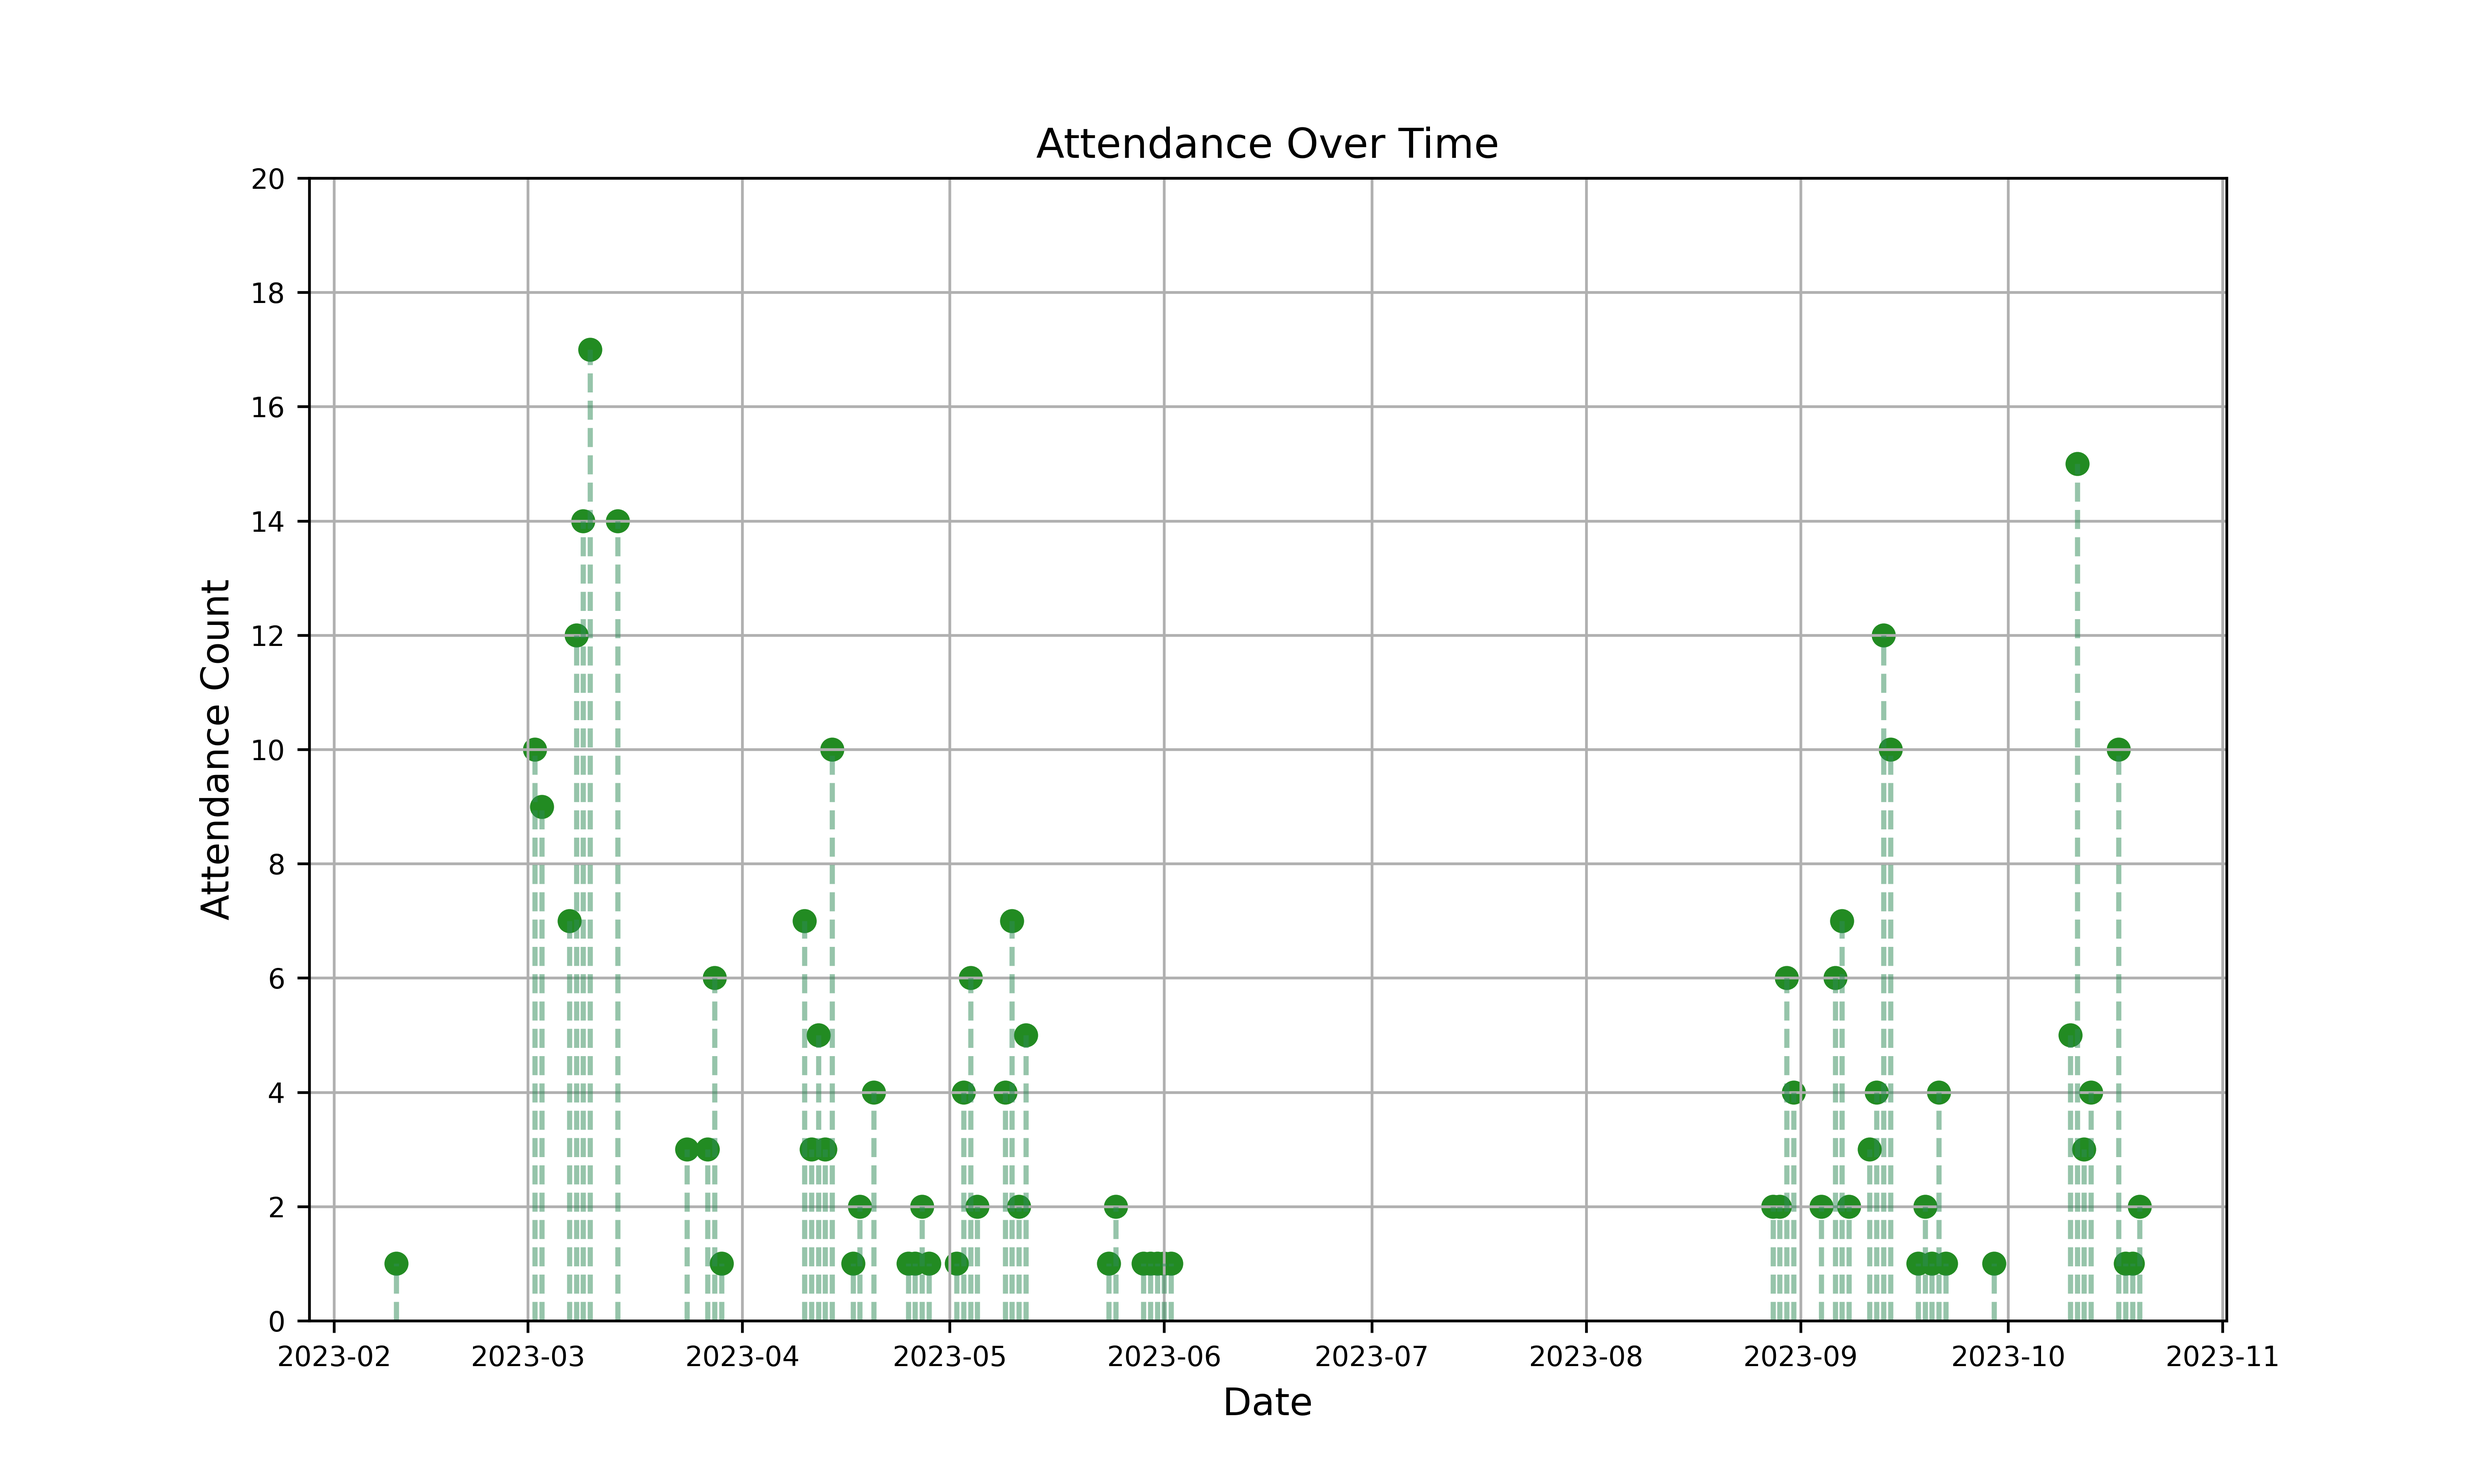
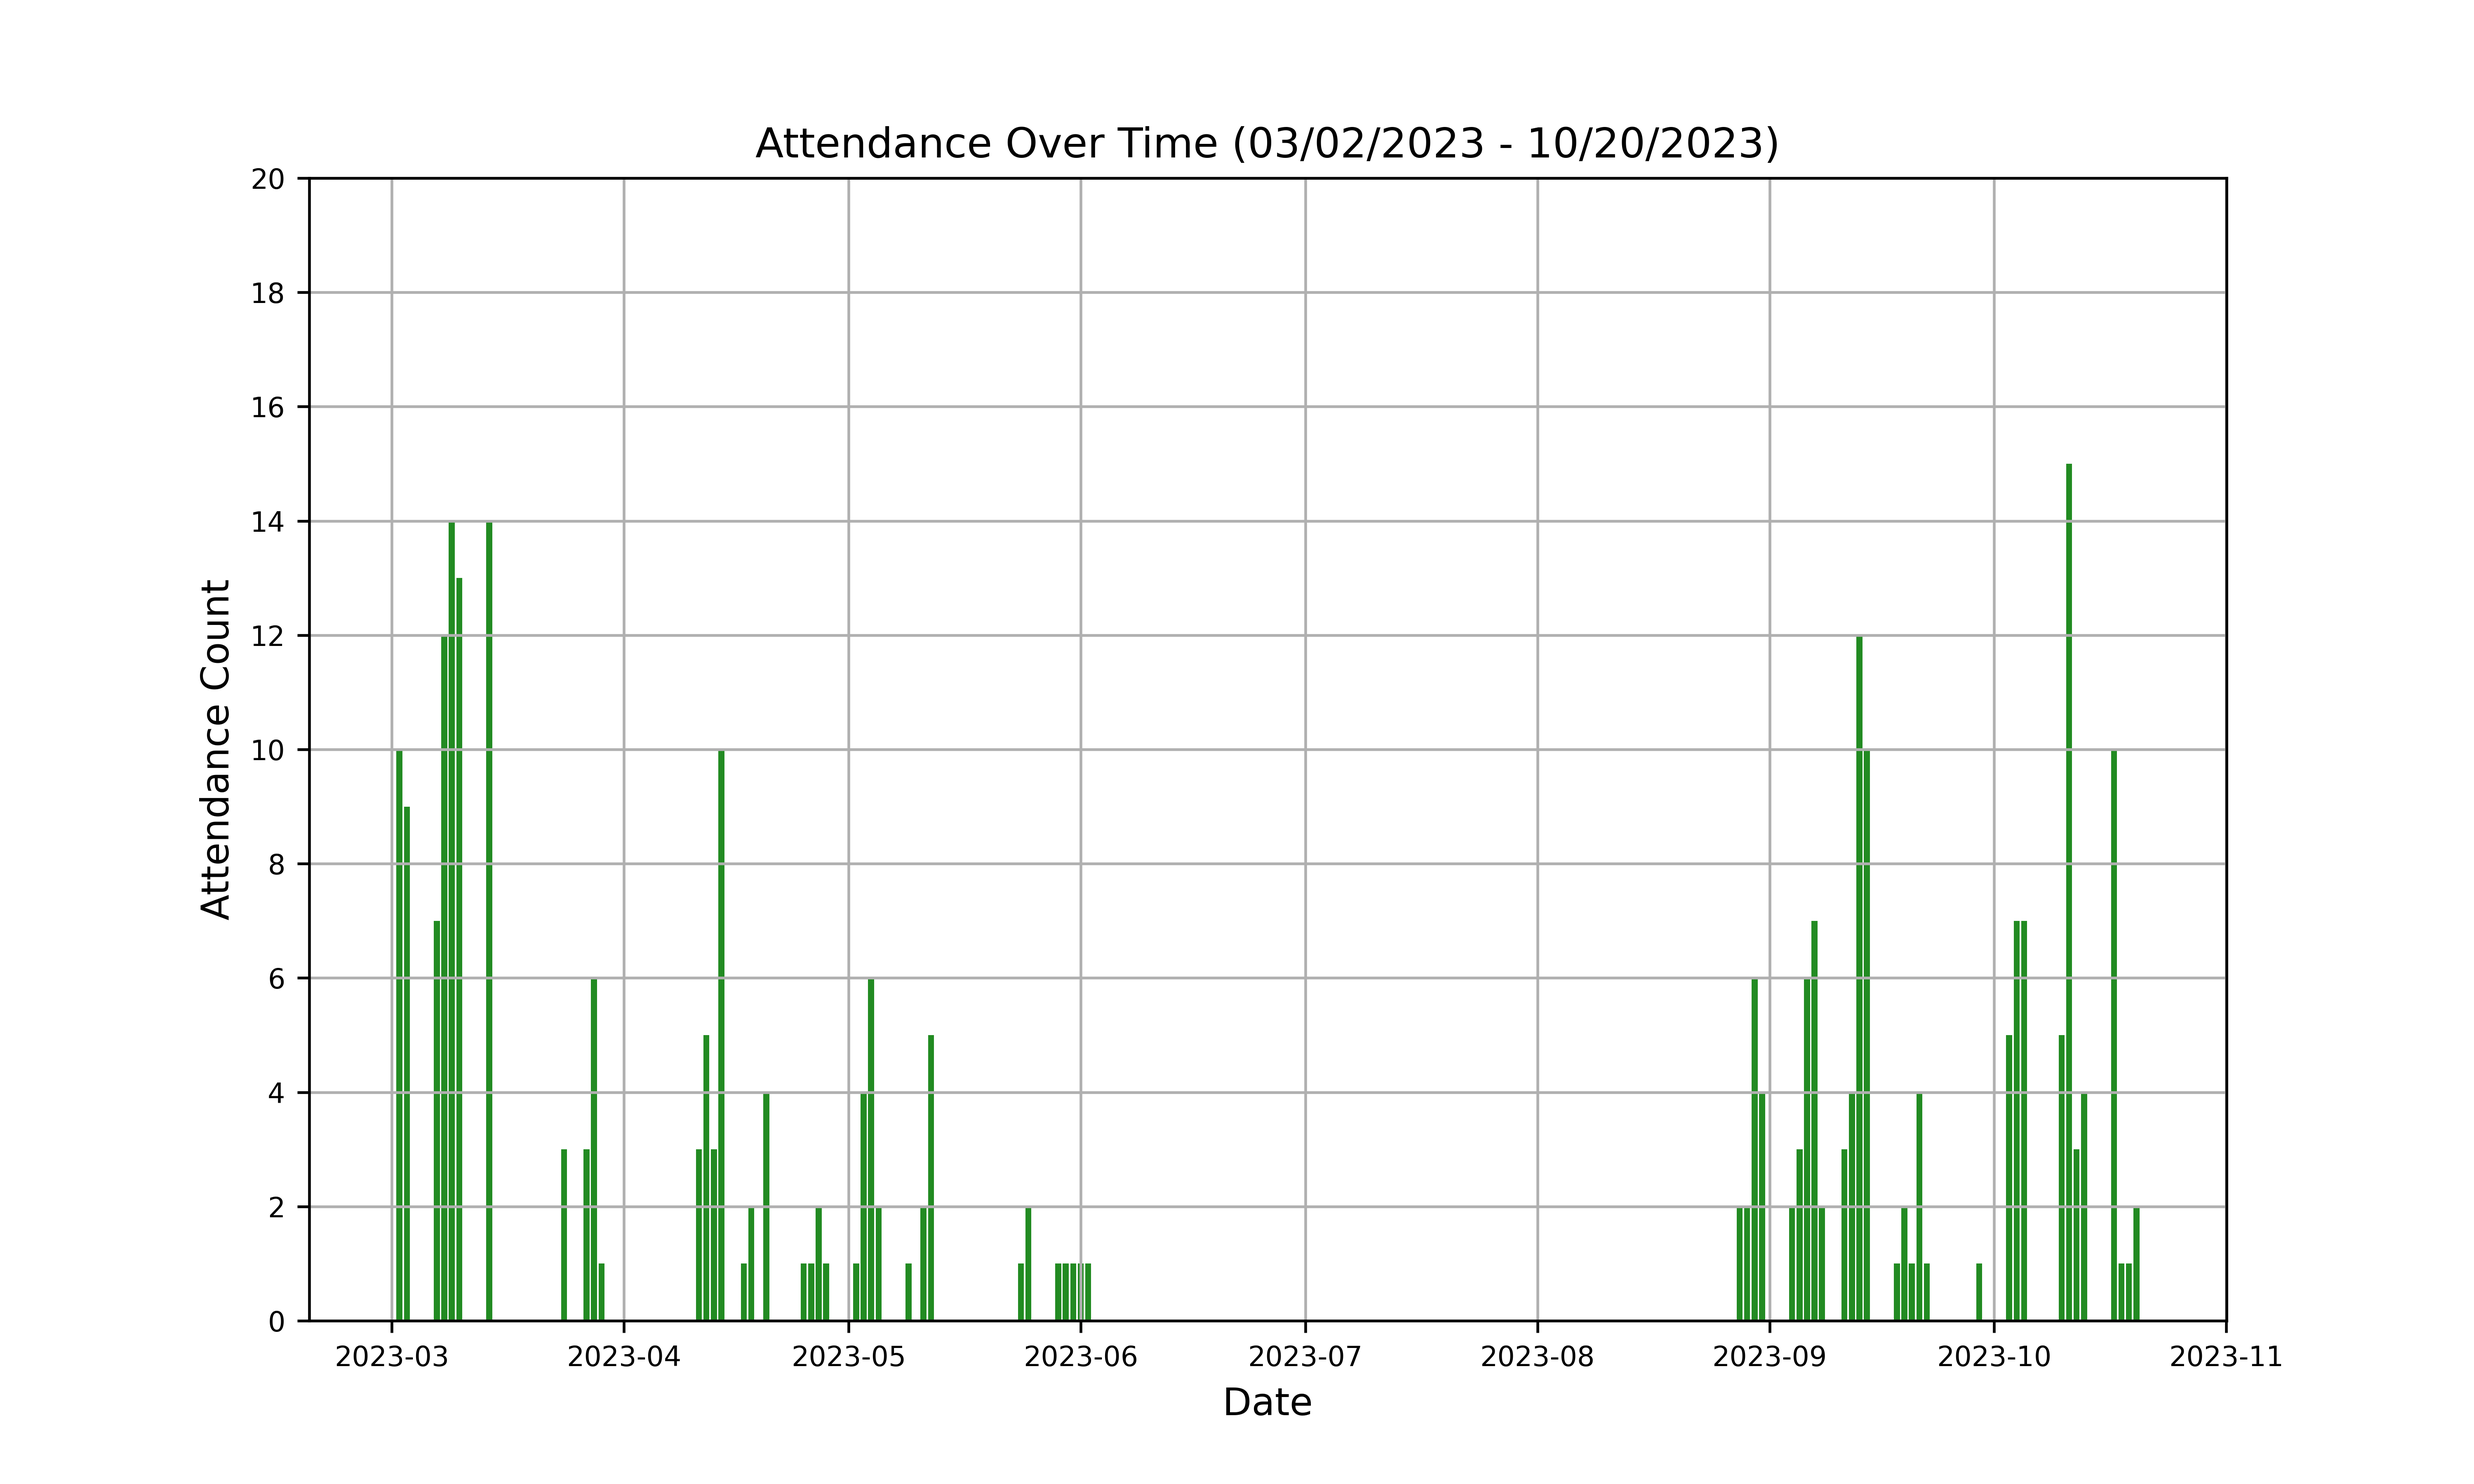
REFACTOR: datetime formatting fixes for proper datetime analysis and plots

diff --git a/scripts/plots.py b/scripts/plots.py
@@ -4,31 +4,22 @@ import numpy as np
 import matplotlib.pyplot as plt
 from matplotlib import ticker
 
-# TODO WRITE HISTOGRAM PLOT CODE; Time series is done
+# TODO WRITE HISTOGRAM FOR DAYS OF THE WEEK (Mon - Fri)
 def getTimeSeriesAttendanceNumbers(df_csv):
     FILE_NAME = "00_timeseries_asistencia_por_dia"
     file_path = f"{utils.getResultsFilePath()}" + FILE_NAME
 
-    # Convert the 'fecha_mmddyyyy' column to datetime format
-    df_csv['fecha_mmddyyyy'] = pd.to_datetime(df_csv['fecha_mmddyyyy'], format='%A, %B %d, %Y')
-
-    # ? weird bug related to date display within the plot
-    print(df_csv['fecha_mmddyyyy'])
+    # Convert 'fecha_mmddyyyy' column to datetime format
+    df_csv['fecha_mmddyyyy'] = pd.to_datetime(df_csv['fecha_mmddyyyy'], format='%m/%d/%Y')
 
     # Group the data by date and count attendance for each date
     attendance_over_time = df_csv.groupby('fecha_mmddyyyy').size().rename('attendance_count')
 
-    print(attendance_over_time)
-
     fig, axes = plt.subplots(figsize=utils.getPlotSize(), 
                              dpi=utils.getDpiScale())
 
-    # Add vertical dotted lines for each dot
-    for date, count in zip(attendance_over_time.index, attendance_over_time.values):
-        axes.vlines(x=date, ymin=0, ymax=count, color='seagreen', linestyle='--', alpha=0.5)
-    
-    axes.scatter(attendance_over_time.index, attendance_over_time.values, 
-              color='forestgreen')
+    # Create a bar graph
+    axes.bar(attendance_over_time.index, attendance_over_time.values, color='forestgreen')
 
     # Set labels and title
     axes.yaxis.set_major_locator(ticker.MaxNLocator(integer=True)) # * Forzar la escala vertical a números enteros
@@ -37,14 +28,14 @@ def getTimeSeriesAttendanceNumbers(df_csv):
     axes.set_ylim(0, 20) # * Limite de escala
     axes.set_xlabel('Date', fontsize=11)
     axes.set_ylabel('Attendance Count', fontsize=11)
-    axes.set_title('Attendance Over Time', fontsize=12)
+    axes.set_title('Attendance Over Time (03/02/2023 - 10/20/2023)', fontsize=12)
 
     # Optionally, set additional properties such as grid lines
     axes.grid(True)
 
     # Show the plot
-    #plt.savefig(file_path)
-    #plt.close()
+    plt.savefig(file_path)
+    plt.close()
     
     print(f"GRAFICA {file_path} realizada con éxito!")
 

diff --git a/scripts/exploration.py b/scripts/exploration.py
@@ -28,8 +28,7 @@ def getAttendanceNumbersPerFinishTime(df_csv):
 def getAttendanceNumbersPerDayOfTheWeek(df_csv):
 
     # to datetime format...
-    df_csv['fecha_mmddyyyy'] = pd.to_datetime(df_csv['fecha_mmddyyyy'], 
-                                              format='%A, %B %d, %Y')
+    df_csv['fecha_mmddyyyy'] = pd.to_datetime(df_csv['fecha_mmddyyyy'], format='%m/%d/%Y')
     
     # Define the desired order of days of the week
     day_to_numeric = {
@@ -70,7 +69,7 @@ def getAttendanceNumbersPerMatricula(df_csv):
 
 def getAttendanceRateByWeekRecurrentStudents(df_csv):
     # Convert the 'fecha_mmddyyyy' column to datetime format
-    df_csv['fecha_mmddyyyy'] = pd.to_datetime(df_csv['fecha_mmddyyyy'], format='%A, %B %d, %Y')
+    df_csv['fecha_mmddyyyy'] = pd.to_datetime(df_csv['fecha_mmddyyyy'], format='%m/%d/%Y')
 
     # Group by student, week, and count the number of attendances per week
     student_week_attendance = df_csv.groupby(['matricula', df_csv['fecha_mmddyyyy'].dt.isocalendar().week]).size()
